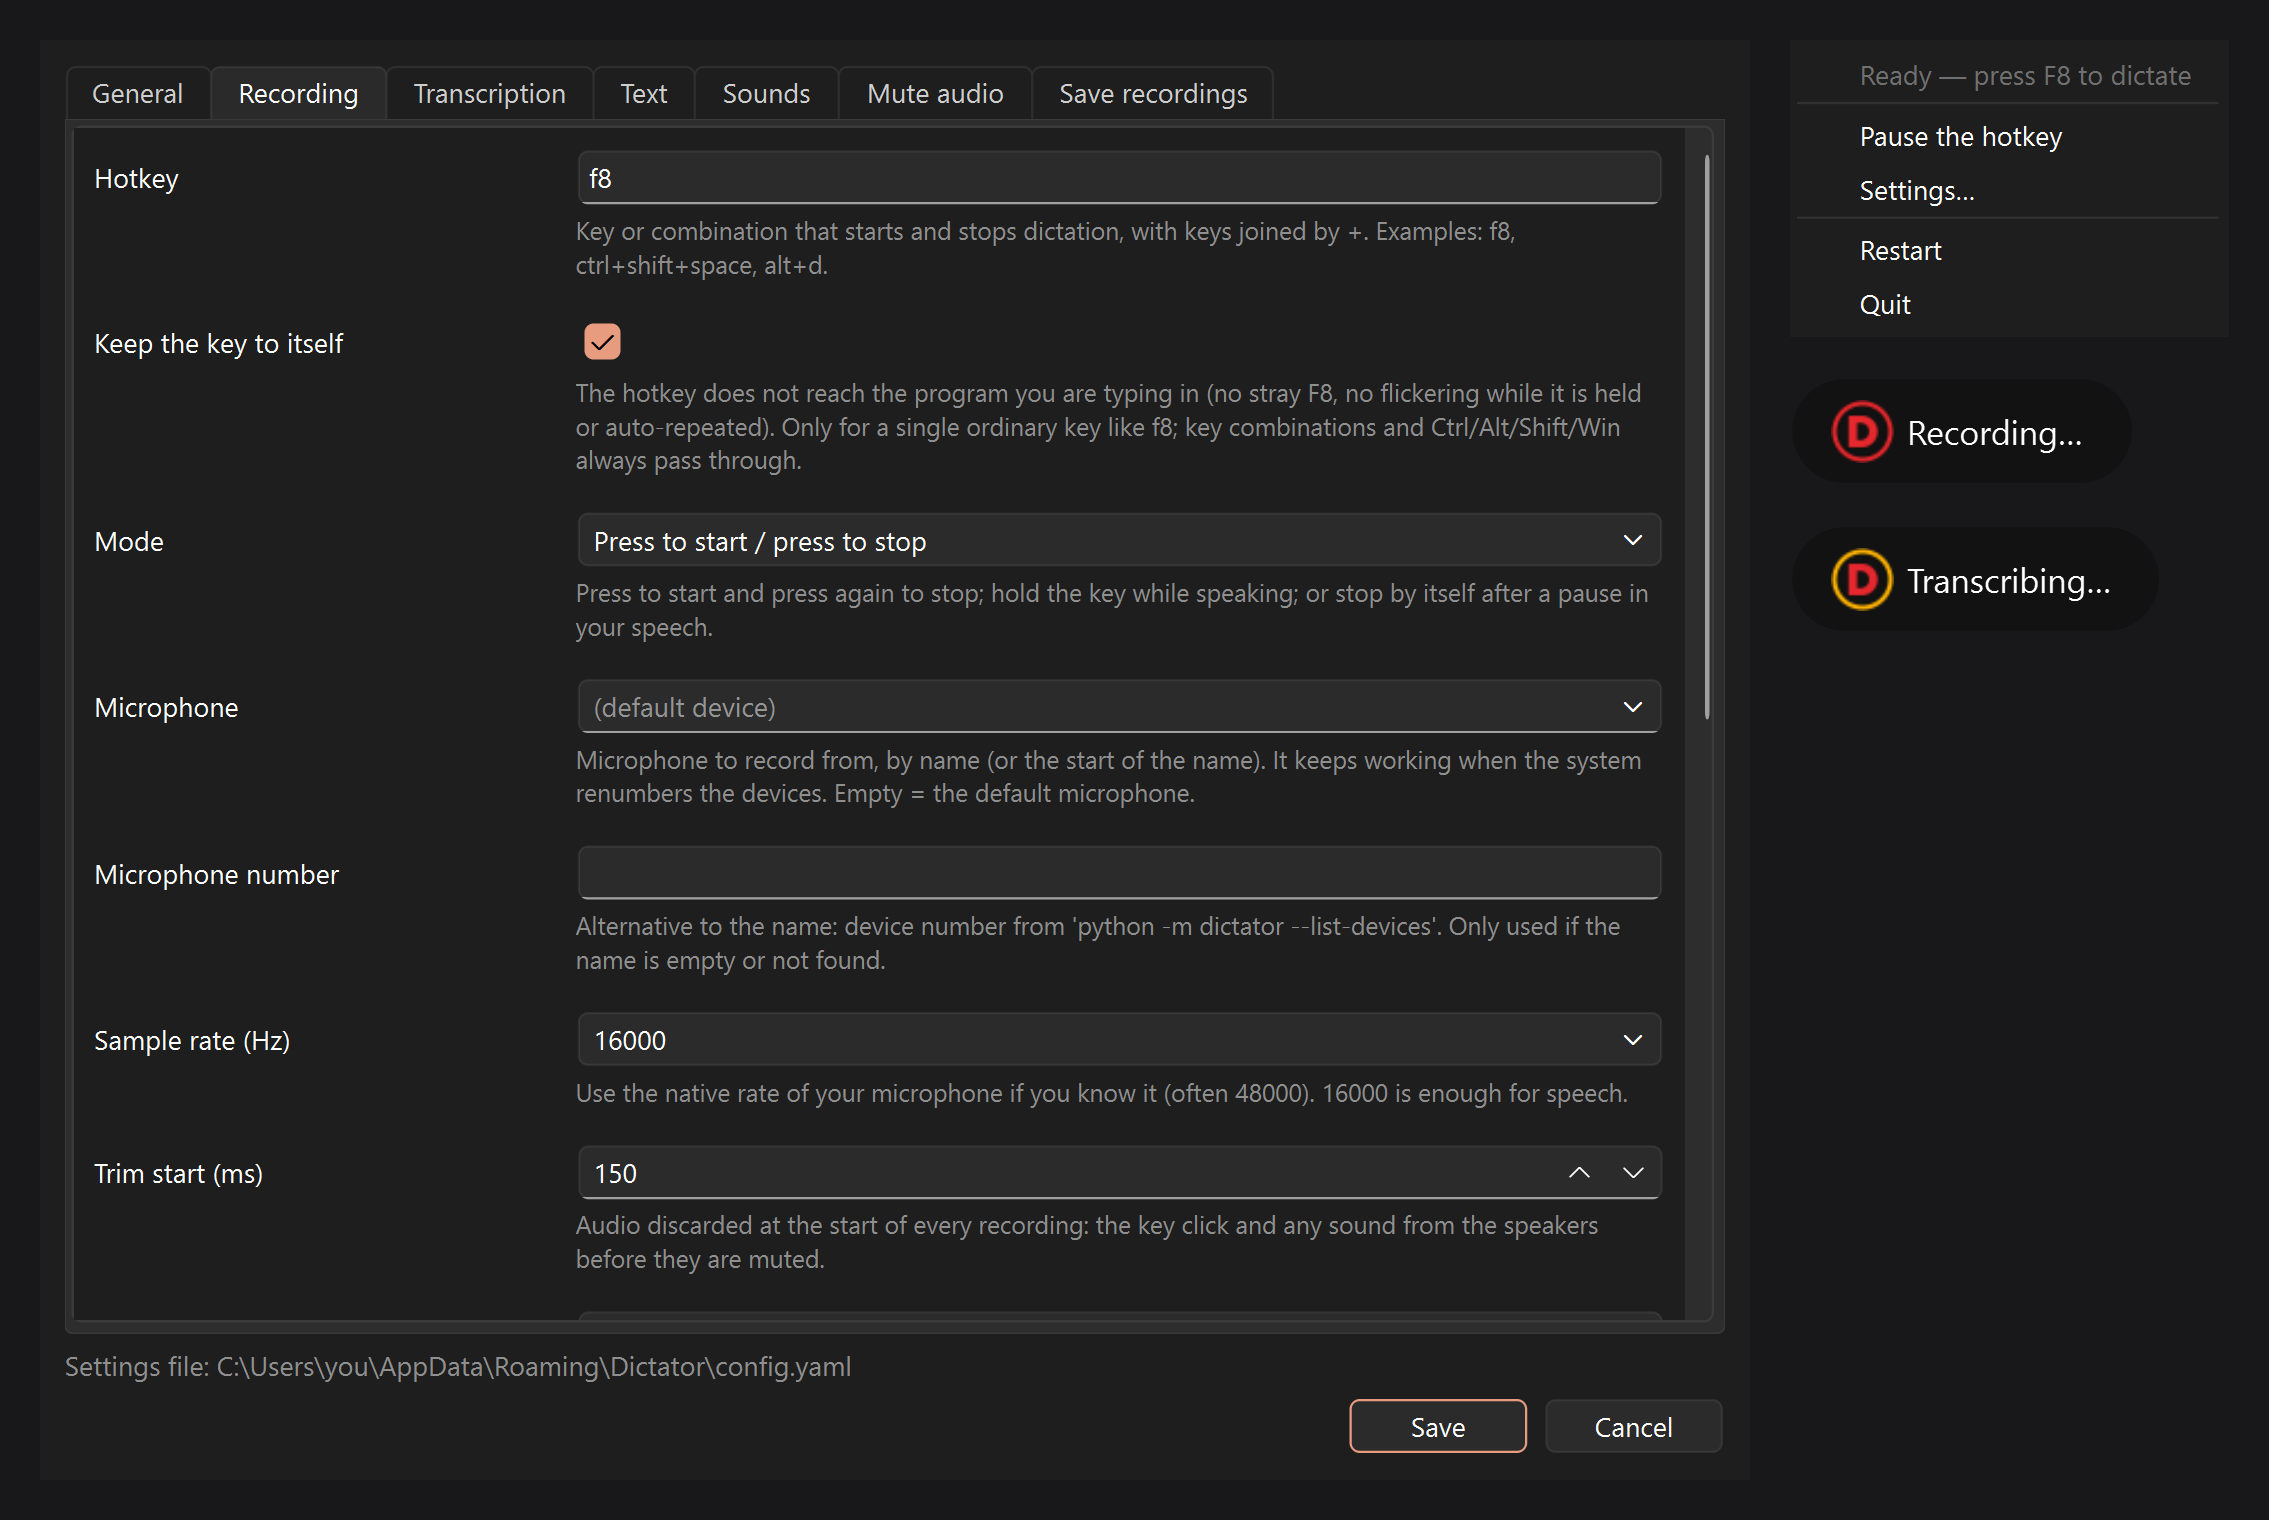
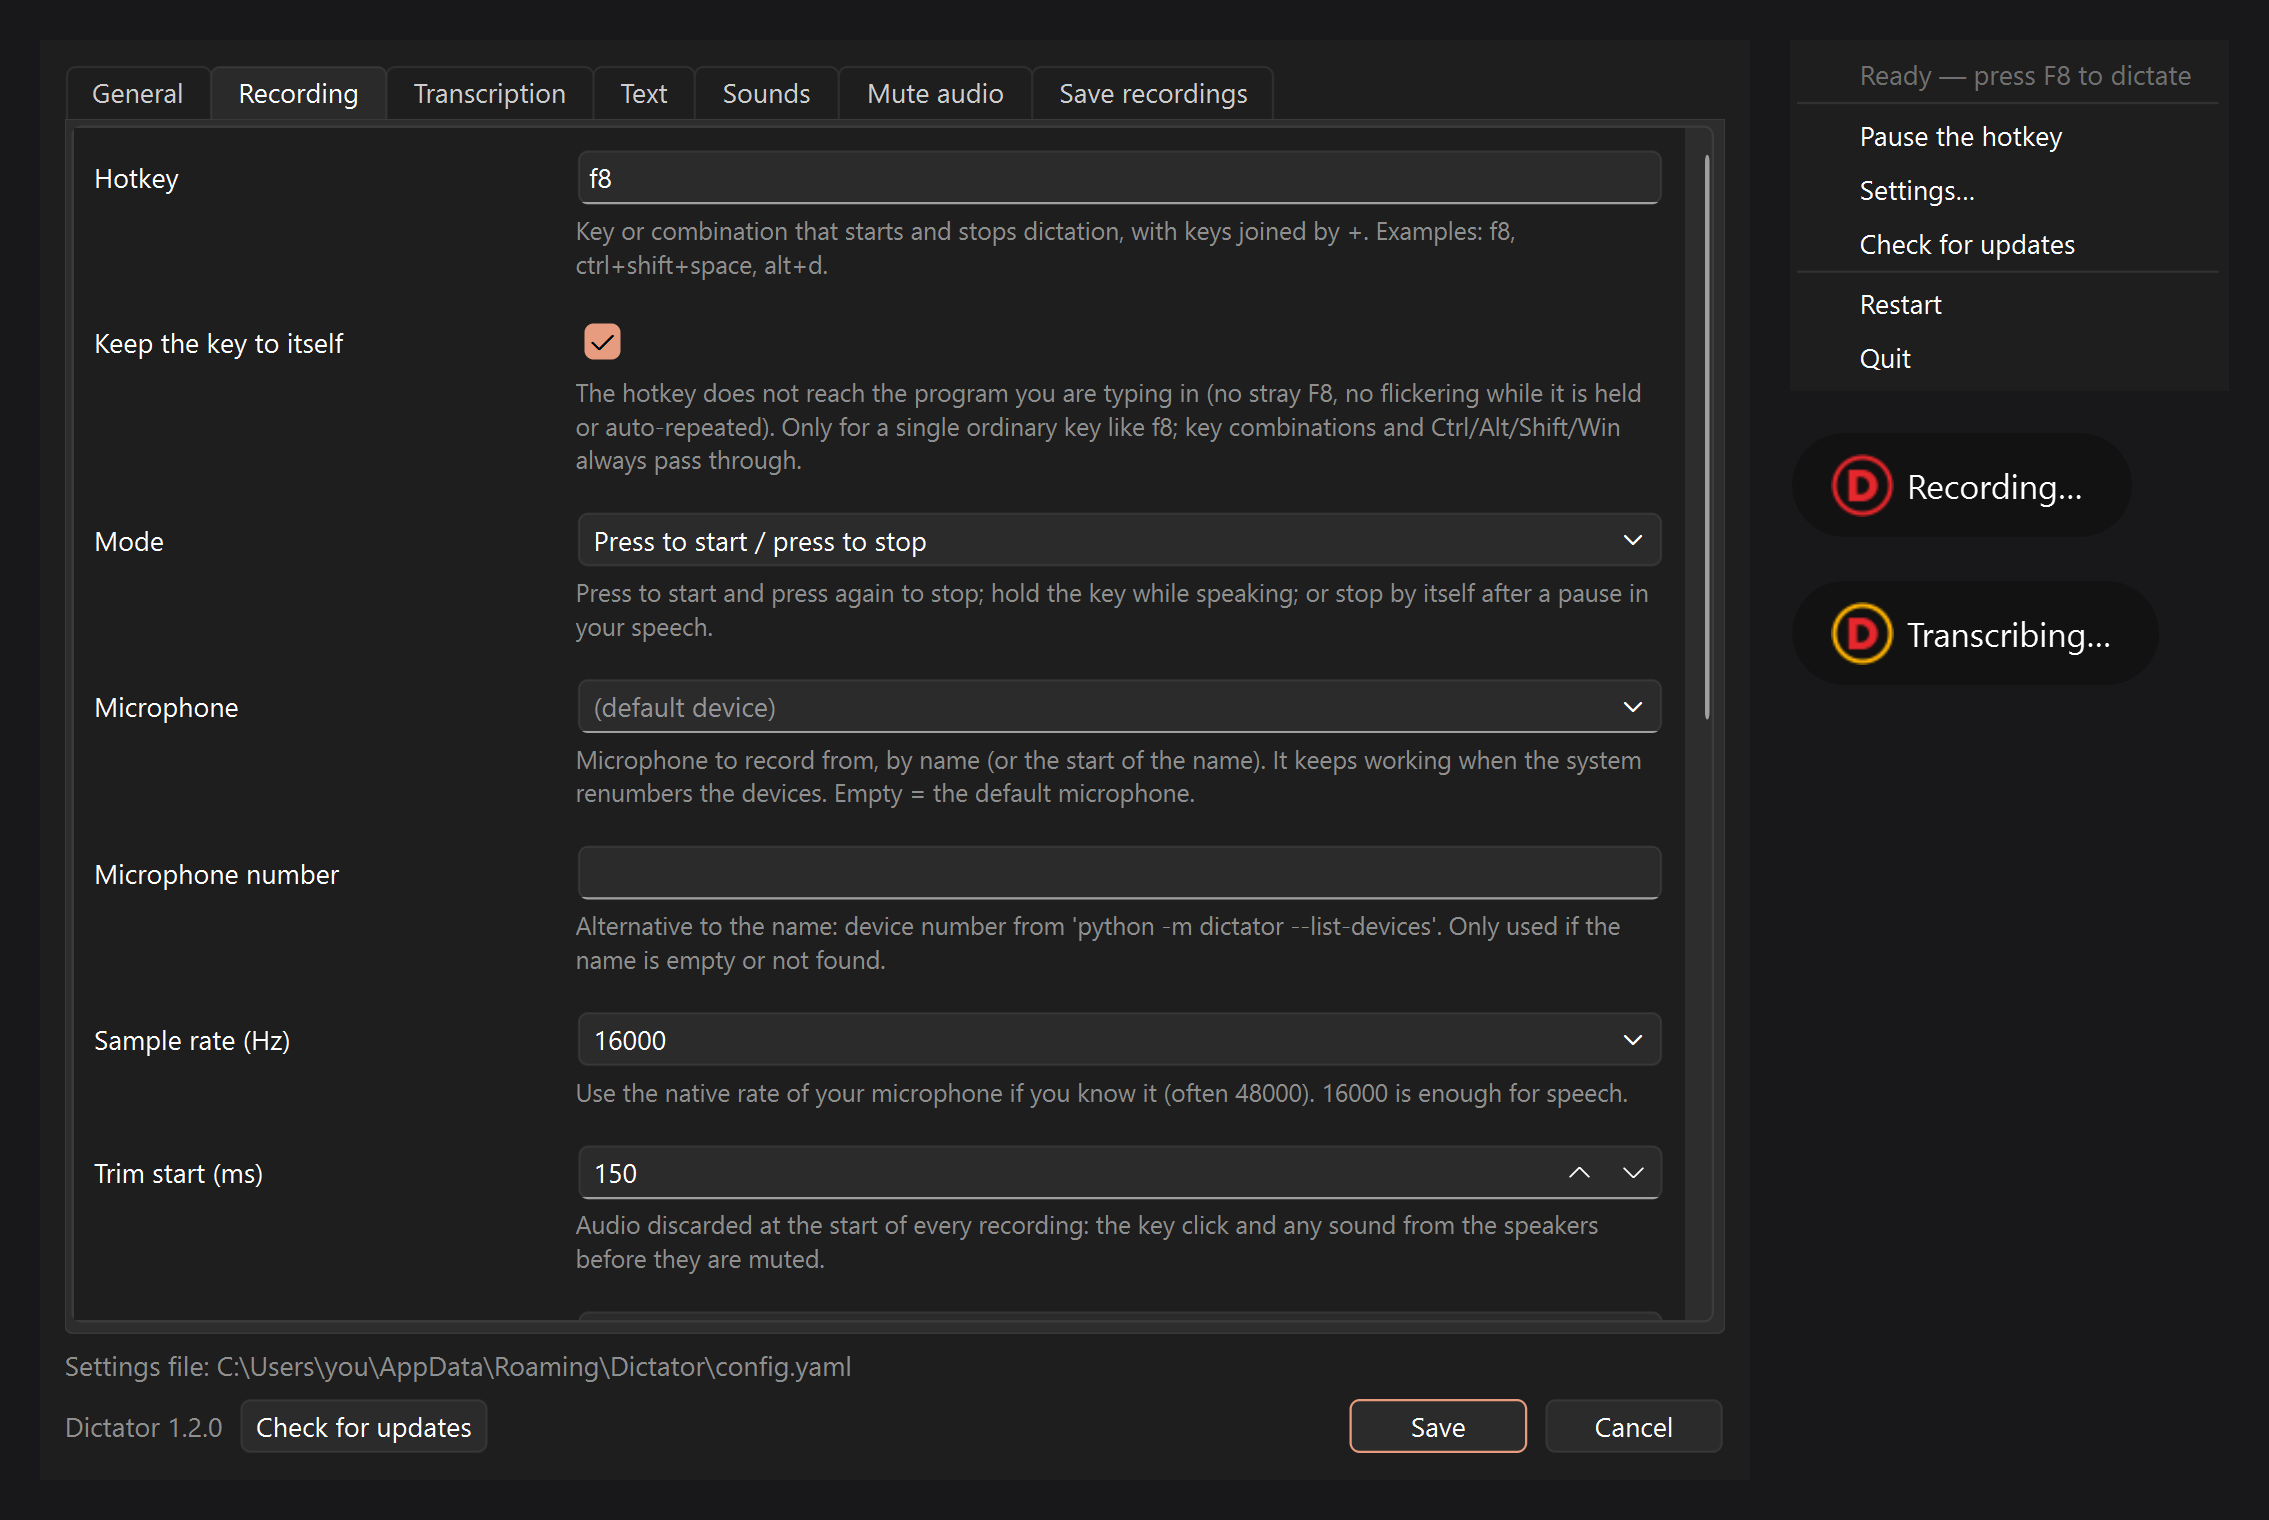
Version 1.2.0
Check for updates in the tray menu and the settings window. README front page
and screenshots show it.

Claude-Session: https://claude.ai/code/session_01St6UgnHsZyv2JC7j85kTtF

diff --git a/tools/make_screenshots.py b/tools/make_screenshots.py
@@ -52,7 +52,7 @@ def main():
     menu.addSeparator()
     pause = QAction(i18n.tr('ui.tray.pause'), menu, checkable=True)
     menu.addAction(pause)
-    for key in ('ui.tray.settings', None, 'ui.tray.restart', 'ui.tray.quit'):
+    for key in ('ui.tray.settings', 'ui.update.button', None, 'ui.tray.restart', 'ui.tray.quit'):
         menu.addSeparator() if key is None else menu.addAction(QAction(i18n.tr(key), menu))
     shots.append(grab(menu, 'tray-menu.png'))
 

diff --git a/dictator/__init__.py b/dictator/__init__.py
@@ -1,2 +1,2 @@
 """Dictator: press a hotkey, speak, and the text is pasted where your cursor is."""
-__version__ = '1.1.0'
+__version__ = '1.2.0'

diff --git a/README.md b/README.md
@@ -10,6 +10,7 @@ English · <a href="README.es.md">Español</a></p>
 Dictator is a small tray app for dictating into any program: an editor, a chat, a terminal, a form.
 It records while you hold or toggle a hotkey, transcribes with [Whisper](https://github.com/openai/whisper)
 (on your own computer or on any OpenAI-compatible server) and pastes the text in one go.
+**Check for updates** brings each new version from GitHub when you ask for it.
 
 ## Features
 
@@ -33,10 +34,13 @@ It records while you hold or toggle a hotkey, transcribes with [Whisper](https:/
 - **Correction dictionary**: a plain text file of `wrong=right` lines for words Whisper keeps mishearing.
 - **Keep your recordings** (optional): every dictation saved as FLAC + text, e.g. to train a voice model,
   with an optional command to send them to another machine.
+- **Check for updates**: one click asks GitHub for the latest release and, if there is a newer one and you
+  agree, installs it in your copy and offers to restart. Your settings stay as they are. It only connects when you
+  click it.
 - **Interface in 15 languages**: English, Español, Português, Français, Deutsch, Italiano, Nederlands, Polski,
   Русский, Українська, 简体中文, 日本語, 한국어, ไทย, हिन्दी.
 - Tray icon that shows the state (red ring = recording, amber = transcribing), a small status window while
-  recording and transcribing, **Check for updates** and **Restart** from the tray menu, and only one instance at a time.
+  recording and transcribing, **Restart** from the tray menu, and only one instance at a time.
 
 ## Install
 

diff --git a/README.es.md b/README.es.md
@@ -10,7 +10,8 @@
 Dictator es una pequeña app de la bandeja del sistema para dictar en cualquier programa: un editor, un chat,
 una terminal, un formulario. Graba mientras mantienes o activas una tecla, transcribe con
 [Whisper](https://github.com/openai/whisper) (en tu propio ordenador o en cualquier servidor compatible con
-OpenAI) y pega el texto de golpe.
+OpenAI) y pega el texto de golpe. **Buscar actualizaciones** trae cada versión nueva desde GitHub cuando tú lo
+pides.
 
 ## Qué hace
 
@@ -34,10 +35,13 @@ OpenAI) y pega el texto de golpe.
   entiende mal una y otra vez.
 - **Guarda tus grabaciones** (opcional): cada dictado en FLAC + texto, por ejemplo para entrenar una voz, con
   un comando opcional para mandarlas a otra máquina.
+- **Buscar actualizaciones**: con un clic pregunta a GitHub cuál es la última versión y, si hay una más nueva
+  y das el visto bueno, la instala en tu copia y ofrece reiniciar. Tus ajustes no cambian. Solo se conecta cuando lo
+  pulsas.
 - **Interfaz en 15 idiomas**: English, Español, Português, Français, Deutsch, Italiano, Nederlands, Polski,
   Русский, Українська, 简体中文, 日本語, 한국어, ไทย, हिन्दी.
 - Icono de bandeja que enseña el estado (aro rojo = grabando, ámbar = transcribiendo), una ventanita de estado
-  mientras graba y transcribe, **Buscar actualizaciones** y **Reiniciar** desde el menú y una sola instancia a la vez.
+  mientras graba y transcribe, **Reiniciar** desde el menú y una sola instancia a la vez.
 
 ## Instalación
 

diff --git a/CHANGELOG.md b/CHANGELOG.md
@@ -1,6 +1,6 @@
 # Changelog
 
-## Unreleased
+## 1.2.0 — 2026-11-07
 
 ### Added
 - **Check for updates**, in the tray menu and at the bottom of the settings window, next to the installed version. Only when you click it, it asks GitHub for the latest release (a single HTTPS request with the User-Agent `Dictator-updater/<version>` and no personal data) and compares the versions semantically. If there is a newer one and Dictator was installed with `git clone`, it asks first, then fetches the release tag from the official repository, moves the copy forward to it (fast-forward only), installs `requirements.txt` again if it has changed and offers to restart. Your settings do not change. Copies with changed program files or commits of their own, or not installed with Git, are left alone and the release page opens instead.
